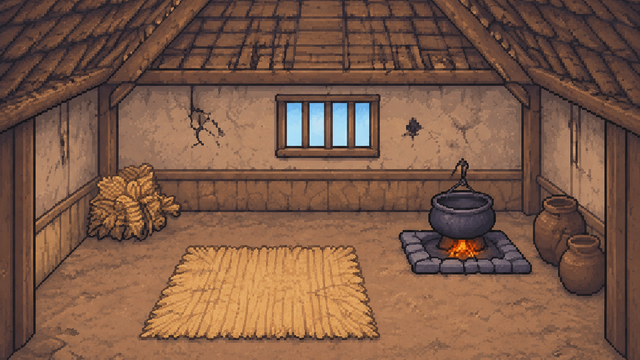
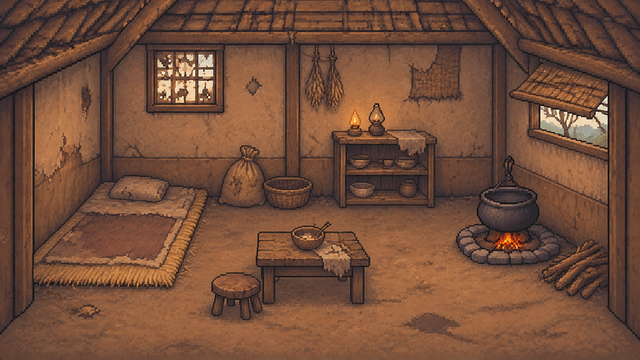
Ending A: use new end_a background, pause on last image before credits

diff --git a/game.js b/game.js
@@ -507,8 +507,7 @@ async function sceneEnding(code) {
   await waitClick();
   card.hidden = true;
 
-  // 엔딩 글 (엔딩 A에는 빈 밥상, 엔딩 B·C에는 인물 그림)
-  if (code === "A") addSprite("prop_table_empty", { cx: 320, bottom: 244 });
+  // 엔딩 글 (엔딩 A는 배경 end_a.png 에 빈 밥상이 그려져 있음, 엔딩 B·C에는 인물 그림)
   if (code === "B") addSprite("char_samani", { cx: 320, bottom: 240 });
   if (code === "C") {
     addSprite("char_samani", { cx: 250, bottom: 240 });
@@ -516,6 +515,10 @@ async function sceneEnding(code) {
     addSprite("char_skull", { cx: 100, bottom: 240 });
   }
   await sayLines(E.lines);
+
+  // 대사가 끝나면 대화창을 숨기고, 클릭할 때까지 마지막 그림을 보여 준다
+  hideDialog();
+  await waitClick();
 
   // 크레딧
   await transition(() => { setBg("bg_forest", true); });
